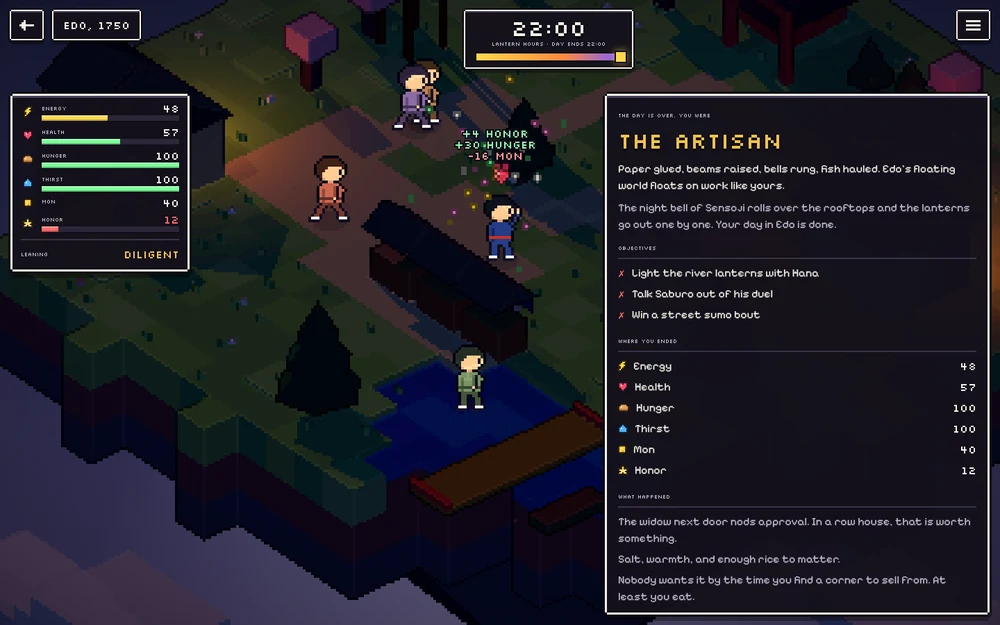
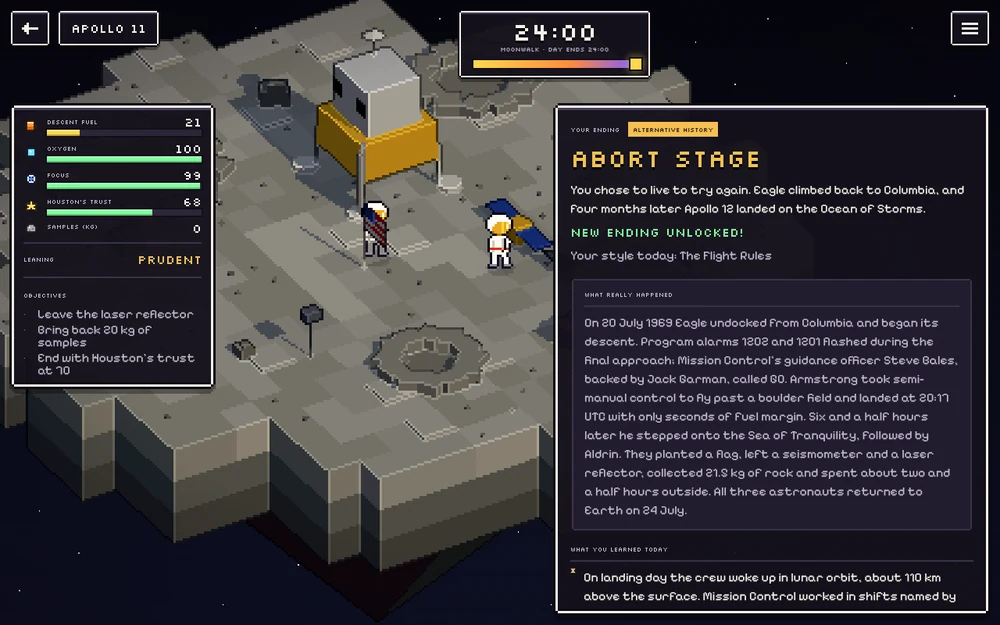
OneDay: now a game of historical events (#4)
New description, stat line, log entry and screenshots for OneDay's
pivot from eras to real historical days.

Claude-Session: https://claude.ai/code/session_01PWrcoiu3kYWppcyqK2ErND

diff --git a/src/data.ts b/src/data.ts
@@ -44,15 +44,15 @@ export const PROJECTS: Project[] = [
     id: 'oneday',
     name: 'OneDay',
     tagline:
-      'A decision game on a 3D pixel-art stage. Pick one of six eras and live a single day: your character walks to each scene and acts out every choice.',
-    stat: '6 eras · 3D pixel art · 207 tests',
+      'A historical decision game on a 3D pixel-art stage: live the Moon landing, the Great Pyramid, Tenochtitlan in 1519 or D-Day, learn as you play, and find the real ending and the ones history missed.',
+    stat: '4 historical events · 27 endings · 210 tests',
     stack: ['Vanilla JS', 'three.js', 'WebGL shaders', 'WebAudio', 'Firebase'],
     live: 'https://lucasmarjua-ui.github.io/oneday/',
     code: 'https://github.com/lucasmarjua-ui/oneday',
     shots: [
-      { src: onedayStart, alt: 'OneDay title screen: Ancient Greece as a floating pixel-art island' },
-      { src: onedayDayLoop, alt: 'OneDay decision in the souk of Córdoba, 961, with the character on stage' },
-      { src: onedaySummary, alt: 'OneDay end of the day in Edo, 1750, at night with the persona reveal' },
+      { src: onedayStart, alt: 'OneDay title screen: Omaha Beach on D-Day as a floating pixel-art diorama' },
+      { src: onedayDayLoop, alt: 'OneDay in Tenochtitlan, 1519: Malintzin on the causeway deciding how to translate Cortés' },
+      { src: onedaySummary, alt: 'OneDay ending screen for Apollo 11: an alternative ending next to what really happened' },
     ],
   },
   {
@@ -102,7 +102,7 @@ export const PROJECTS: Project[] = [
 ];
 
 export const INVENTORY = [
-  { item: 'OneDay', value: '3D pixel art' },
+  { item: 'OneDay', value: '4 events in history' },
   { item: 'RetroGames', value: '6 games' },
   { item: 'MasterCinema', value: '5 categories' },
   { item: 'PawMatch', value: 'Flutter app' },
@@ -147,8 +147,14 @@ export const SKILLS = [
 export const LOG = [
   {
     date: 'Oct 2026',
+    title: 'Turned OneDay into history',
+    body: 'Eras became real historical days: Apollo 11, the Great Pyramid, Tenochtitlan 1519 and Omaha Beach. Historical notes on every choice, one real ending and many alternative ones.',
+    href: 'https://lucasmarjua-ui.github.io/oneday/',
+  },
+  {
+    date: 'Oct 2026',
     title: 'Took OneDay to 3D',
-    body: 'Six pixel-art islands in three.js with an outline shader, a character who acts out every choice, a day-night cycle and generative music.',
+    body: 'Pixel-art dioramas in three.js with an outline shader, a character who acts out every choice, a day-night cycle and generative music.',
     href: 'https://lucasmarjua-ui.github.io/oneday/',
   },
   {
@@ -160,7 +166,7 @@ export const LOG = [
   {
     date: 'Sep 2026',
     title: 'Shipped OneDay',
-    body: 'Six eras, one day each. Content is pure JSON, checked by a unit-test suite that runs in CI on every push.',
+    body: 'A decision game built on one idea: live a single day, one choice at a time. Content is pure JSON, checked by a unit-test suite that runs in CI on every push.',
     href: 'https://lucasmarjua-ui.github.io/oneday/',
   },
   {
